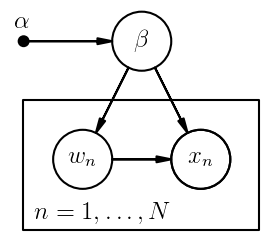
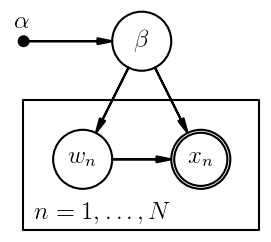
nicer docs

Changed region(s): [[0.6199, 0.5207, 0.8561, 0.8099]]

diff --git a/searchindex.js b/searchindex.js
@@ -1,1 +1,1 @@
-Search.setIndex({objects:{"":{daft:[7,0,1,""]},"daft.Node":{render:[7,1,1,""]},"daft.Plate":{render:[7,1,1,""]},"daft.Edge":{render:[7,1,1,""]},daft:{Node:[7,2,1,""],Plate:[7,2,1,""],Edge:[7,2,1,""],PGM:[7,2,1,""]},"daft.PGM":{add_node:[7,1,1,""],add_plate:[7,1,1,""],add_edge:[7,1,1,""],render:[7,1,1,""]}},terms:{represent:7,all:1,identifi:7,edg:[7,8,1],savefig:[1,4,5,6,8,9],text:[1,4,5,6,7,8],over:7,move:7,grid_unit:[7,9],rang:9,galaxi:6,shape:7,ellips:7,ellipt:7,add_edg:[1,4,5,6,7,8,9],aspect:[7,5],corner:7,font:[6,8,1,4,5],vari:7,paramet:[7,8,1],hierarch:[8,1],node_ec:[7,4],ratio:7,facecolor:7,graph:0,fix:[7,8,1],independ:7,should:7,add_nod:[1,4,5,6,7,8,9],color:7,add:[7,8,1],sigma_n:6,wet:[4,5],save:[8,1,9],defin:7,bin:[8,1,9],plate:[6,8,1,7],them:1,random:[7,9],string:7,format:0,fals:[7,9],between:7,wordi:5,rectangl:7,add_plat:[6,8,1,7],backend:0,grid:7,condit:7,measur:7,name:7,cdot:8,label_offset:7,patch:7,grai:7,nograi:[7,1],weaklens:6,arrow:7,node1:7,output:0,node2:7,dpi:[1,4,5,6,8,9],summari:0,dimens:7,correct:7,set:7,"_rendering_context":7,direct:[0,7,9],annot:7,tex:6,second:7,pass:7,rect_param:7,variabl:[7,8,1],scale:7,bottom:7,trivial:0,enumer:9,label:[6,8,1,7],content:7,mrf:9,figur:[1,4,5,6,7,8,9],usetex:[6,8,1,4,5],internet:0,"new":7,row:7,"public":0,journal:0,matplotlib:[0,1,4,5,6,7,8],itertool:9,base:7,quckstart:[0,3],dictionari:7,offset:7,latent:[8,1],vertic:7,modifi:7,rect:7,panel:7,line_width:7,grass:[4,5],convers:7,conv:7,column:7,shift:[7,8,1],script:0,ctx:7,etc:7,instanc:7,cloudi:[4,5],constructor:7,pdf:[0,1,4,5,6,8,9],gamma:6,first:7,origin:[1,4,5,6,7,8,9],diamet:7,own:1,render:[0,1,4,5,6,7,8,9],point:7,x_n:[6,8,1],pgm:[0,1,4,5,6,7,8,9],bound:7,height:7,api:[0,7],non:0,famili:[6,8,1,4,5],"import":[1,4,5,6,8,9],guid:0,your:0,unit:7,size:[1,4,5,6,7,8],plot:7,given:7,from:[1,4,5,6,7,8],describ:7,area:7,omega:6,support:0,doubl:7,numpi:9,two:7,construct:7,few:0,definit:0,includ:0,circl:7,suit:0,instal:[0,2],inner:1,option:7,form:7,both:0,epsilon:6,grid_siz:7,probabilist:0,permit:7,coordin:7,serif:[6,8,1,4,5],name2:7,name1:7,number:7,"true":[1,4,5,6,7,8],than:7,png:[0,1,4,5,6,8,9],none:[7,4],graphic:[0,7],word:7,w_n:[8,1],plain:7,ride:7,particularli:0,displai:7,plot_param:7,daft:[0,1,4,5,6,7,8,9],can:0,str:9,toward:7,observ:[6,8,7,1,5],undirect:0,encapsul:7,creat:7,beautifulli:0,process:7,well:0,ani:0,indic:7,observed_styl:[7,1],"default":7,kwarg:7,have:7,node_unit:[7,9],seed:9,instanti:[8,1,9],sprinkler:[4,5],rather:7,centimet:7,when:7,ldot:1,python:[8,0,1,9],other:[0,7],build:[0,7],env:[8,1,9],you:0,document:0,conflict:7,nocircl:4,node:[1,4,5,6,7,8,9],even:0,product:9,repeat:7,shade:7,symbol:0,object:7,rain:[4,5],beta:[8,1],user:0,mani:0,usr:[8,1,9],alpha:[6,8,1],data:[8,1],"class":7,latex:0,macro:0,space:7,classic:8,exampl:0,command:[0,7],thi:[0,7],callabl:7,model:[0,7],mathrm:6,sigma:6,width:7,left:7},objtypes:{"0":"py:module","1":"py:method","2":"py:class"},titles:["Daft","Nogray","Installation","Quckstart","Nocircles","Wordy","Weaklensing","API","Classic","Mrf"],objnames:{"0":["py","module","Python module"],"1":["py","method","Python method"],"2":["py","class","Python class"]},filenames:["index","examples/nogray","installation","quickstart","examples/nocircles","examples/wordy","examples/weaklensing","api","examples/classic","examples/mrf"]})
+Search.setIndex({objects:{"":{daft:[1,0,1,""]},"daft.Node":{render:[7,1,1,""]},"daft.Plate":{render:[7,1,1,""]},"daft.Edge":{render:[7,1,1,""]},daft:{Node:[7,2,1,""],Plate:[7,2,1,""],Edge:[7,2,1,""],PGM:[7,2,1,""]},"daft.PGM":{add_node:[7,1,1,""],add_plate:[7,1,1,""],add_edge:[7,1,1,""],render:[7,1,1,""]}},terms:{represent:7,all:8,identifi:7,edg:[7,8,1],show:8,savefig:[1,4,5,6,8,9],text:[1,4,5,6,7,8],over:7,random:[7,9],grid_unit:[7,9],diamet:7,galaxi:6,shape:7,ellips:7,ellipt:7,add_edg:[1,4,5,6,7,8,9],aspect:[7,5],left:7,corner:7,font:[6,8,1,4,5],vari:7,paramet:[7,8,1],hierarch:[8,1],node_ec:[7,4],style:1,outer:1,facecolor:7,how:8,pgm:[0,1,4,5,6,7,8,9],graph:0,fix:[7,8,1],should:7,add_nod:[1,4,5,6,7,8,9],x_n:[6,8,1],add:[7,8,1],sigma_n:6,creat:7,wet:[4,5],save:[8,1,9],bin:9,plate:[6,8,1,7],non:0,move:7,string:7,format:0,fals:[7,9],between:7,wordi:5,rectangl:7,add_plat:[6,8,1,7],grid:7,"new":7,veri:8,color:7,measur:7,name:7,cdot:8,label_offset:7,patch:7,grai:7,nograi:[7,1],weaklens:6,common:8,arrow:7,node1:7,found:8,node2:7,dpi:[1,4,5,6,8,9],summari:0,dimens:7,set:[8,7],"_rendering_context":7,direct:[0,7,9],displai:7,tex:6,second:7,pass:7,rect_param:7,bake:8,variabl:[7,8,1],scale:7,bottom:7,trivial:0,size:[1,4,5,6,7,8],enumer:9,label:[6,8,1,7],content:7,"public":0,figur:[1,4,5,6,7,8,9],unit:7,internet:0,condit:7,row:7,correct:7,plot_param:7,altern:1,name1:7,object:7,journal:0,given:7,matplotlib:[0,1,4,5,6,7,8],itertool:9,base:7,quckstart:[0,3],dictionari:7,offset:7,ratio:7,vertic:7,modifi:7,rect:7,panel:7,line_width:7,toward:7,convers:7,column:7,shift:[7,8,1],area:7,ctx:7,etc:7,instanc:7,cloudi:[4,5],constructor:7,quintessenti:8,pdf:[0,1,4,5,6,8,9],gamma:6,first:7,origin:[1,4,5,6,7,8,9],rang:9,w_n:[8,1],render:[0,1,4,5,6,7,8,9],point:7,instanti:[8,9],independ:7,bound:7,height:7,api:[0,7],construct:7,famili:[6,8,1,4,5],"import":[1,4,5,6,8,9],guid:0,your:0,usetex:[6,8,1,4,5],backend:0,plot:7,differ:1,from:[1,4,5,6,7,8],describ:7,script:0,data:[8,1],support:0,doubl:[7,1],numpi:9,two:7,been:8,few:0,much:8,usr:9,circl:7,suit:0,instal:[0,2],inner:1,option:[7,1],form:7,both:0,python:[0,9],epsilon:6,grid_siz:7,probabilist:0,coordin:7,serif:[6,8,1,4,5],name2:7,particular:1,number:7,"true":[1,4,5,6,7,8],than:7,png:[0,1,4,5,6,8,9],latent:[8,1],none:[7,4],graphic:[8,0,7],word:7,look:1,"default":[8,7],plain:7,ride:7,outlin:1,particularli:0,annot:7,structur:8,defin:7,daft:[0,1,4,5,6,7,8,9],can:0,str:9,grass:[4,5],observ:[6,8,7,1,5],undirect:0,model:[7,0,1,8],encapsul:7,conv:7,beautifulli:0,process:7,well:0,ani:0,indic:[7,1],observed_styl:[7,1],kwarg:7,have:7,node_unit:[7,9],definit:0,seed:9,sprinkler:[4,5],output:0,rather:7,centimet:7,when:7,same:1,ldot:1,also:1,other:[0,7],build:[0,7],env:9,instead:1,you:0,document:0,conflict:7,nocircl:4,node:[1,4,5,6,7,8,9],even:0,product:9,repeat:7,thi:[7,0,1,8],symbol:0,permit:7,rain:[4,5],beta:[8,1],user:0,beauti:8,mani:0,alpha:[6,8,1],omega:6,"class":7,demonstr:8,latex:0,off:8,macro:0,space:7,classic:[8,1],exampl:[0,1],command:[0,7],shade:[7,1],callabl:7,mrf:9,mathrm:6,sigma:6,width:7,includ:0},objtypes:{"0":"py:module","1":"py:method","2":"py:class"},titles:["Daft","Alternative Observed Node Styles","Installation","Quckstart","Nocircles","Wordy","Weaklensing","API","The quintessential PGM","Mrf"],objnames:{"0":["py","module","Python module"],"1":["py","method","Python method"],"2":["py","class","Python class"]},filenames:["index","examples/nogray","installation","quickstart","examples/nocircles","examples/wordy","examples/weaklensing","api","examples/classic","examples/mrf"]})

diff --git a/examples/nogray/index.html b/examples/nogray/index.html
@@ -7,7 +7,7 @@
   <head>
     <meta http-equiv="Content-Type" content="text/html; charset=utf-8" />
     
-    <title>Nogray &mdash; Daft 0.0.1 documentation</title>
+    <title>Alternative Observed Node Styles &mdash; Daft 0.0.1 documentation</title>
     
     <link rel="stylesheet" href="../../_static/daft.css" type="text/css" />
     <link rel="stylesheet" href="../../_static/pygments.css" type="text/css" />
@@ -26,9 +26,10 @@
     <script type="text/javascript" src="../../_static/doctools.js"></script>
     <script type="text/javascript" src="http://cdn.mathjax.org/mathjax/latest/MathJax.js?config=TeX-AMS-MML_HTMLorMML"></script>
     <link rel="top" title="Daft 0.0.1 documentation" href="../../" />
-
      
+
     <link rel="shortcut icon" href="../../_static/favicon.png">
+    <link rel="stylesheet" href="../../_static/code.css" type="text/css" />
 
 
   </head>
@@ -46,23 +47,24 @@
         <div class="bodywrapper">
           <div class="body">
             
-  <div class="section" id="nogray">
-<span id="id1"></span><h1>Nogray<a class="headerlink" href="#nogray" title="Permalink to this headline">¶</a></h1>
+  <div class="section" id="alternative-observed-node-styles">
+<span id="nogray"></span><h1>Alternative Observed Node Styles<a class="headerlink" href="#alternative-observed-node-styles" title="Permalink to this headline">¶</a></h1>
 <div class="figure">
 <img alt="../../_images/nogray.png" src="../../_images/nogray.png" />
 </div>
-<div class="highlight-python"><div class="highlight"><pre><span class="c">#!/usr/bin/env python</span>
-<span class="sd">&quot;&quot;&quot;</span>
-<span class="sd">One PGM to own them all.</span>
-<span class="sd">&quot;&quot;&quot;</span>
-
-<span class="kn">from</span> <span class="nn">matplotlib</span> <span class="kn">import</span> <span class="n">rc</span>
+</div>
+<div class="section" id="id1">
+<h1>Alternative Observed Node Styles<a class="headerlink" href="#id1" title="Permalink to this headline">¶</a></h1>
+<span class="target" id="module-daft"></span><p>This model is the same as <a class="reference external" href="/examples/classic">the classic</a> model but the
+&#8220;observed&#8221; <a class="reference internal" href="../../api/#daft.Node" title="daft.Node"><tt class="xref py py-class docutils literal"><span class="pre">Node</span></tt></a> is indicated by a double outline instead of shading.
+This particular example uses the <tt class="docutils literal"><span class="pre">inner</span></tt> style but <tt class="docutils literal"><span class="pre">outer</span></tt> is also an
+option for a different look.</p>
+<div class="highlight-python"><div class="highlight"><pre><span class="kn">from</span> <span class="nn">matplotlib</span> <span class="kn">import</span> <span class="n">rc</span>
 <span class="n">rc</span><span class="p">(</span><span class="s">&quot;font&quot;</span><span class="p">,</span> <span class="n">family</span><span class="o">=</span><span class="s">&quot;serif&quot;</span><span class="p">,</span> <span class="n">size</span><span class="o">=</span><span class="mi">12</span><span class="p">)</span>
 <span class="n">rc</span><span class="p">(</span><span class="s">&quot;text&quot;</span><span class="p">,</span> <span class="n">usetex</span><span class="o">=</span><span class="bp">True</span><span class="p">)</span>
 
 <span class="kn">import</span> <span class="nn">daft</span>
 
-<span class="c"># Instantiate the PGM.</span>
 <span class="n">pgm</span> <span class="o">=</span> <span class="n">daft</span><span class="o">.</span><span class="n">PGM</span><span class="p">([</span><span class="mf">2.3</span><span class="p">,</span> <span class="mf">2.05</span><span class="p">],</span> <span class="n">origin</span><span class="o">=</span><span class="p">[</span><span class="mf">0.3</span><span class="p">,</span> <span class="mf">0.3</span><span class="p">],</span> <span class="n">observed_style</span><span class="o">=</span><span class="s">&quot;inner&quot;</span><span class="p">)</span>
 
 <span class="c"># Hierarchical parameters.</span>

diff --git a/examples/classic/index.html b/examples/classic/index.html
@@ -7,7 +7,7 @@
   <head>
     <meta http-equiv="Content-Type" content="text/html; charset=utf-8" />
     
-    <title>Classic &mdash; Daft 0.0.1 documentation</title>
+    <title>The quintessential PGM &mdash; Daft 0.0.1 documentation</title>
     
     <link rel="stylesheet" href="../../_static/daft.css" type="text/css" />
     <link rel="stylesheet" href="../../_static/pygments.css" type="text/css" />
@@ -26,9 +26,10 @@
     <script type="text/javascript" src="../../_static/doctools.js"></script>
     <script type="text/javascript" src="http://cdn.mathjax.org/mathjax/latest/MathJax.js?config=TeX-AMS-MML_HTMLorMML"></script>
     <link rel="top" title="Daft 0.0.1 documentation" href="../../" />
-
      
+
     <link rel="shortcut icon" href="../../_static/favicon.png">
+    <link rel="stylesheet" href="../../_static/code.css" type="text/css" />
 
 
   </head>
@@ -46,14 +47,18 @@
         <div class="bodywrapper">
           <div class="body">
             
-  <div class="section" id="classic">
-<span id="id1"></span><h1>Classic<a class="headerlink" href="#classic" title="Permalink to this headline">¶</a></h1>
+  <div class="section" id="the-quintessential-pgm">
+<span id="classic"></span><h1>The quintessential PGM<a class="headerlink" href="#the-quintessential-pgm" title="Permalink to this headline">¶</a></h1>
 <div class="figure">
 <img alt="../../_images/classic.png" src="../../_images/classic.png" />
 </div>
-<div class="highlight-python"><div class="highlight"><pre><span class="c">#!/usr/bin/env python</span>
-
-<span class="kn">from</span> <span class="nn">matplotlib</span> <span class="kn">import</span> <span class="n">rc</span>
+</div>
+<div class="section" id="id1">
+<h1>The quintessential PGM<a class="headerlink" href="#id1" title="Permalink to this headline">¶</a></h1>
+<p>This is a demonstration of a very common structure found in graphical models.
+It has been rendered using Daft&#8217;s default settings for all the parameters
+and it shows off how much beauty is baked in by default.</p>
+<div class="highlight-python"><div class="highlight"><pre><span class="kn">from</span> <span class="nn">matplotlib</span> <span class="kn">import</span> <span class="n">rc</span>
 <span class="n">rc</span><span class="p">(</span><span class="s">&quot;font&quot;</span><span class="p">,</span> <span class="n">family</span><span class="o">=</span><span class="s">&quot;serif&quot;</span><span class="p">,</span> <span class="n">size</span><span class="o">=</span><span class="mi">12</span><span class="p">)</span>
 <span class="n">rc</span><span class="p">(</span><span class="s">&quot;text&quot;</span><span class="p">,</span> <span class="n">usetex</span><span class="o">=</span><span class="bp">True</span><span class="p">)</span>
 

diff --git a/genindex/index.html b/genindex/index.html
@@ -28,9 +28,10 @@
     <script type="text/javascript" src="../_static/doctools.js"></script>
     <script type="text/javascript" src="http://cdn.mathjax.org/mathjax/latest/MathJax.js?config=TeX-AMS-MML_HTMLorMML"></script>
     <link rel="top" title="Daft 0.0.1 documentation" href="../" />
-
      
+
     <link rel="shortcut icon" href="../_static/favicon.png">
+    <link rel="stylesheet" href="../_static/code.css" type="text/css" />
 
 
   </head>
@@ -84,7 +85,7 @@
 <table style="width: 100%" class="indextable genindextable"><tr>
   <td style="width: 33%" valign="top"><dl>
       
-  <dt><a href="../api/#module-daft">daft (module)</a>
+  <dt><a href="../examples/nogray/#module-daft">daft (module)</a>, <a href="../api/#module-daft">[1]</a>
   </dt>
 
   </dl></td>

diff --git a/py-modindex/index.html b/py-modindex/index.html
@@ -27,9 +27,10 @@
     <script type="text/javascript" src="http://cdn.mathjax.org/mathjax/latest/MathJax.js?config=TeX-AMS-MML_HTMLorMML"></script>
     <link rel="top" title="Daft 0.0.1 documentation" href="../" />
 
-
      
+
     <link rel="shortcut icon" href="../_static/favicon.png">
+    <link rel="stylesheet" href="../_static/code.css" type="text/css" />
 
 
 
@@ -67,7 +68,7 @@
      <tr>
        <td></td>
        <td>
-       <a href="../api/#module-daft"><tt class="xref">daft</tt></a></td><td>
+       <a href="../examples/nogray/#module-daft"><tt class="xref">daft</tt></a></td><td>
        <em></em></td></tr>
    </table>
 

diff --git a/examples/mrf/index.html b/examples/mrf/index.html
@@ -26,9 +26,10 @@
     <script type="text/javascript" src="../../_static/doctools.js"></script>
     <script type="text/javascript" src="http://cdn.mathjax.org/mathjax/latest/MathJax.js?config=TeX-AMS-MML_HTMLorMML"></script>
     <link rel="top" title="Daft 0.0.1 documentation" href="../../" />
-
      
+
     <link rel="shortcut icon" href="../../_static/favicon.png">
+    <link rel="stylesheet" href="../../_static/code.css" type="text/css" />
 
 
   </head>

diff --git a/examples/nocircles/index.html b/examples/nocircles/index.html
@@ -26,9 +26,10 @@
     <script type="text/javascript" src="../../_static/doctools.js"></script>
     <script type="text/javascript" src="http://cdn.mathjax.org/mathjax/latest/MathJax.js?config=TeX-AMS-MML_HTMLorMML"></script>
     <link rel="top" title="Daft 0.0.1 documentation" href="../../" />
-
      
+
     <link rel="shortcut icon" href="../../_static/favicon.png">
+    <link rel="stylesheet" href="../../_static/code.css" type="text/css" />
 
 
   </head>

diff --git a/examples/weaklensing/index.html b/examples/weaklensing/index.html
@@ -26,9 +26,10 @@
     <script type="text/javascript" src="../../_static/doctools.js"></script>
     <script type="text/javascript" src="http://cdn.mathjax.org/mathjax/latest/MathJax.js?config=TeX-AMS-MML_HTMLorMML"></script>
     <link rel="top" title="Daft 0.0.1 documentation" href="../../" />
-
      
+
     <link rel="shortcut icon" href="../../_static/favicon.png">
+    <link rel="stylesheet" href="../../_static/code.css" type="text/css" />
 
 
   </head>

diff --git a/examples/wordy/index.html b/examples/wordy/index.html
@@ -26,9 +26,10 @@
     <script type="text/javascript" src="../../_static/doctools.js"></script>
     <script type="text/javascript" src="http://cdn.mathjax.org/mathjax/latest/MathJax.js?config=TeX-AMS-MML_HTMLorMML"></script>
     <link rel="top" title="Daft 0.0.1 documentation" href="../../" />
-
      
+
     <link rel="shortcut icon" href="../../_static/favicon.png">
+    <link rel="stylesheet" href="../../_static/code.css" type="text/css" />
 
 
   </head>

diff --git a/api/index.html b/api/index.html
@@ -27,9 +27,10 @@
     <script type="text/javascript" src="http://cdn.mathjax.org/mathjax/latest/MathJax.js?config=TeX-AMS-MML_HTMLorMML"></script>
     <link rel="top" title="Daft 0.0.1 documentation" href="../" />
     <link rel="prev" title="Quckstart" href="../quickstart/" />
-
      
+
     <link rel="shortcut icon" href="../_static/favicon.png">
+    <link rel="stylesheet" href="../_static/code.css" type="text/css" />
 
 
   </head>

diff --git a/index.html b/index.html
@@ -27,9 +27,10 @@
     <script type="text/javascript" src="http://cdn.mathjax.org/mathjax/latest/MathJax.js?config=TeX-AMS-MML_HTMLorMML"></script>
     <link rel="top" title="Daft 0.0.1 documentation" href="#" />
     <link rel="next" title="Installation" href="installation/" />
-
      
+
     <link rel="shortcut icon" href="_static/favicon.png">
+    <link rel="stylesheet" href="_static/code.css" type="text/css" />
 
 
   </head>

diff --git a/quickstart/index.html b/quickstart/index.html
@@ -28,9 +28,10 @@
     <link rel="top" title="Daft 0.0.1 documentation" href="../" />
     <link rel="next" title="API" href="../api/" />
     <link rel="prev" title="Installation" href="../installation/" />
-
      
+
     <link rel="shortcut icon" href="../_static/favicon.png">
+    <link rel="stylesheet" href="../_static/code.css" type="text/css" />
 
 
   </head>
